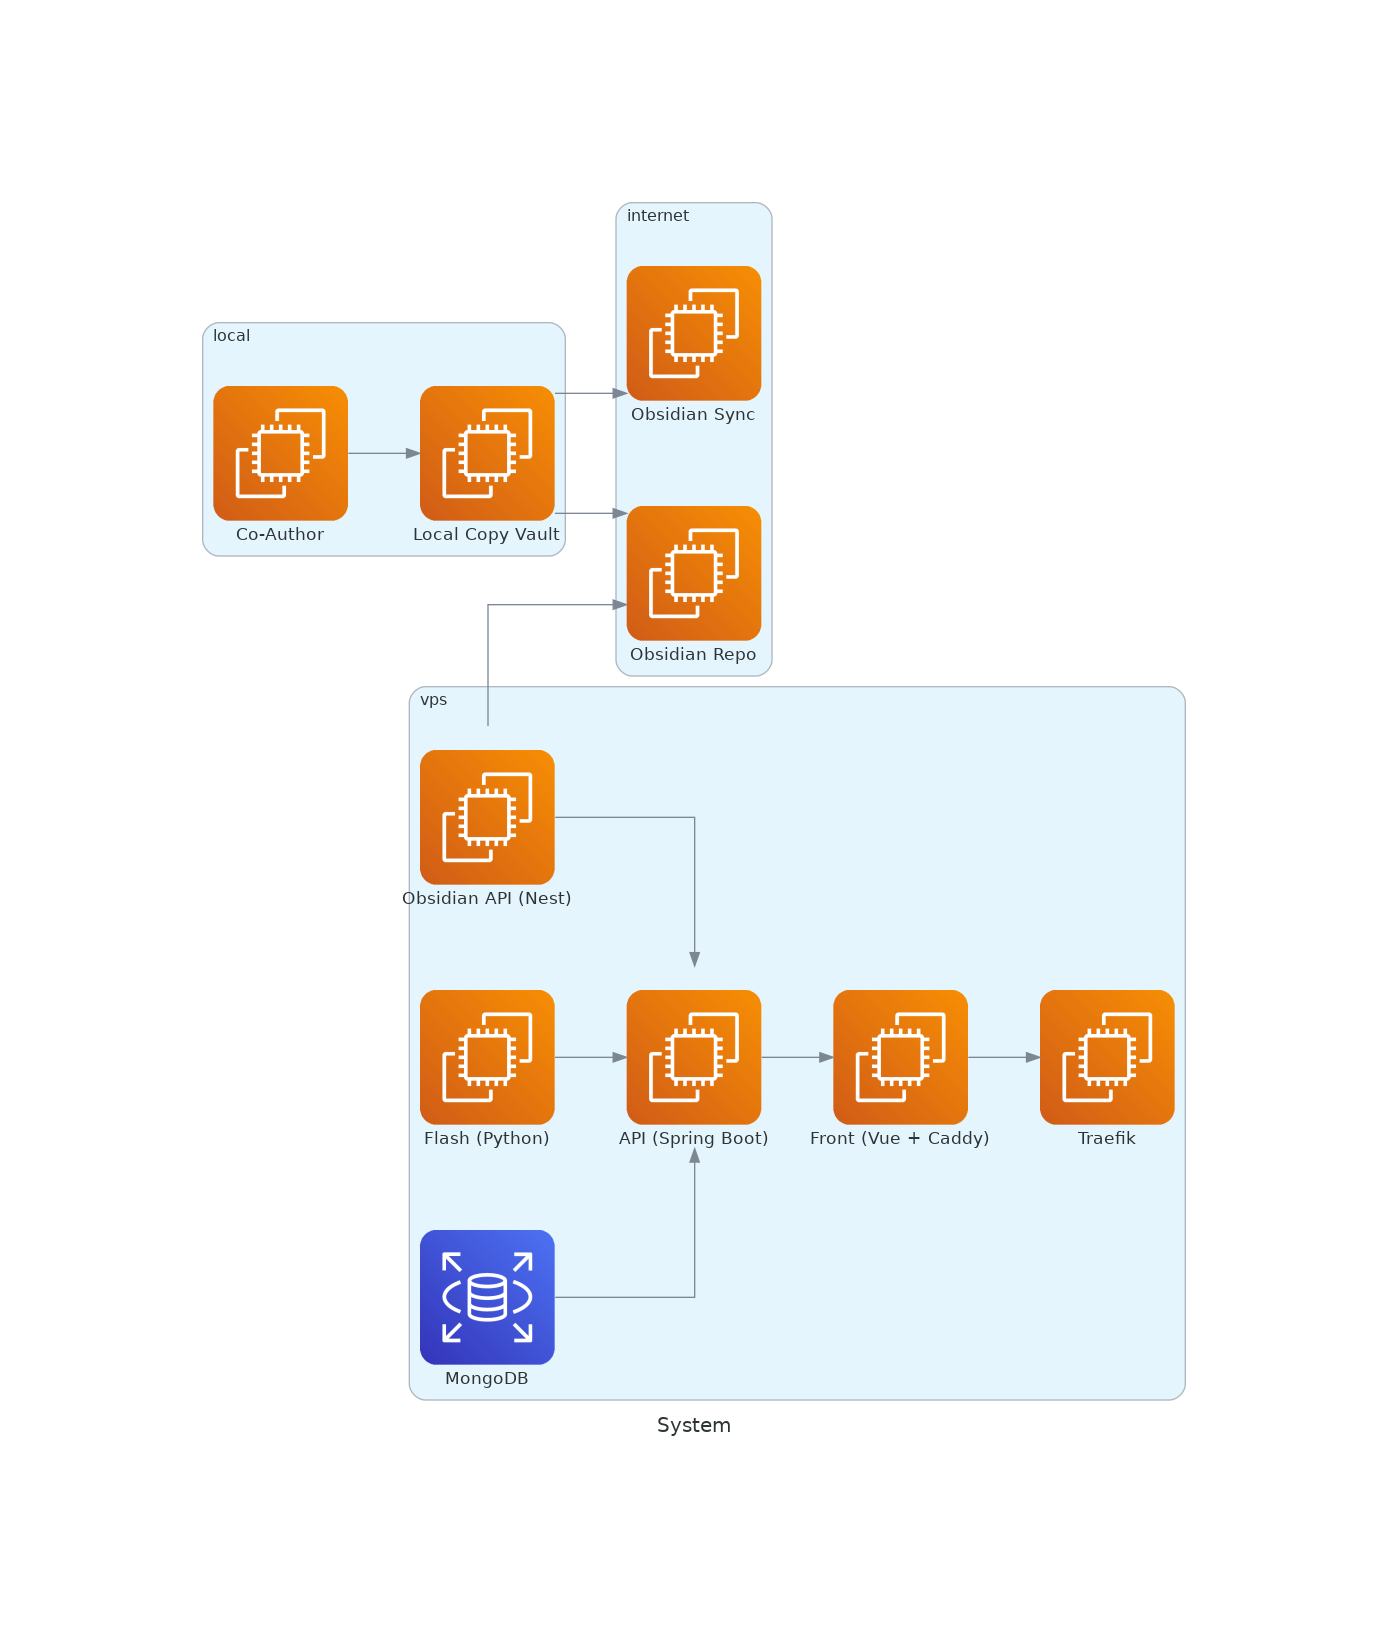
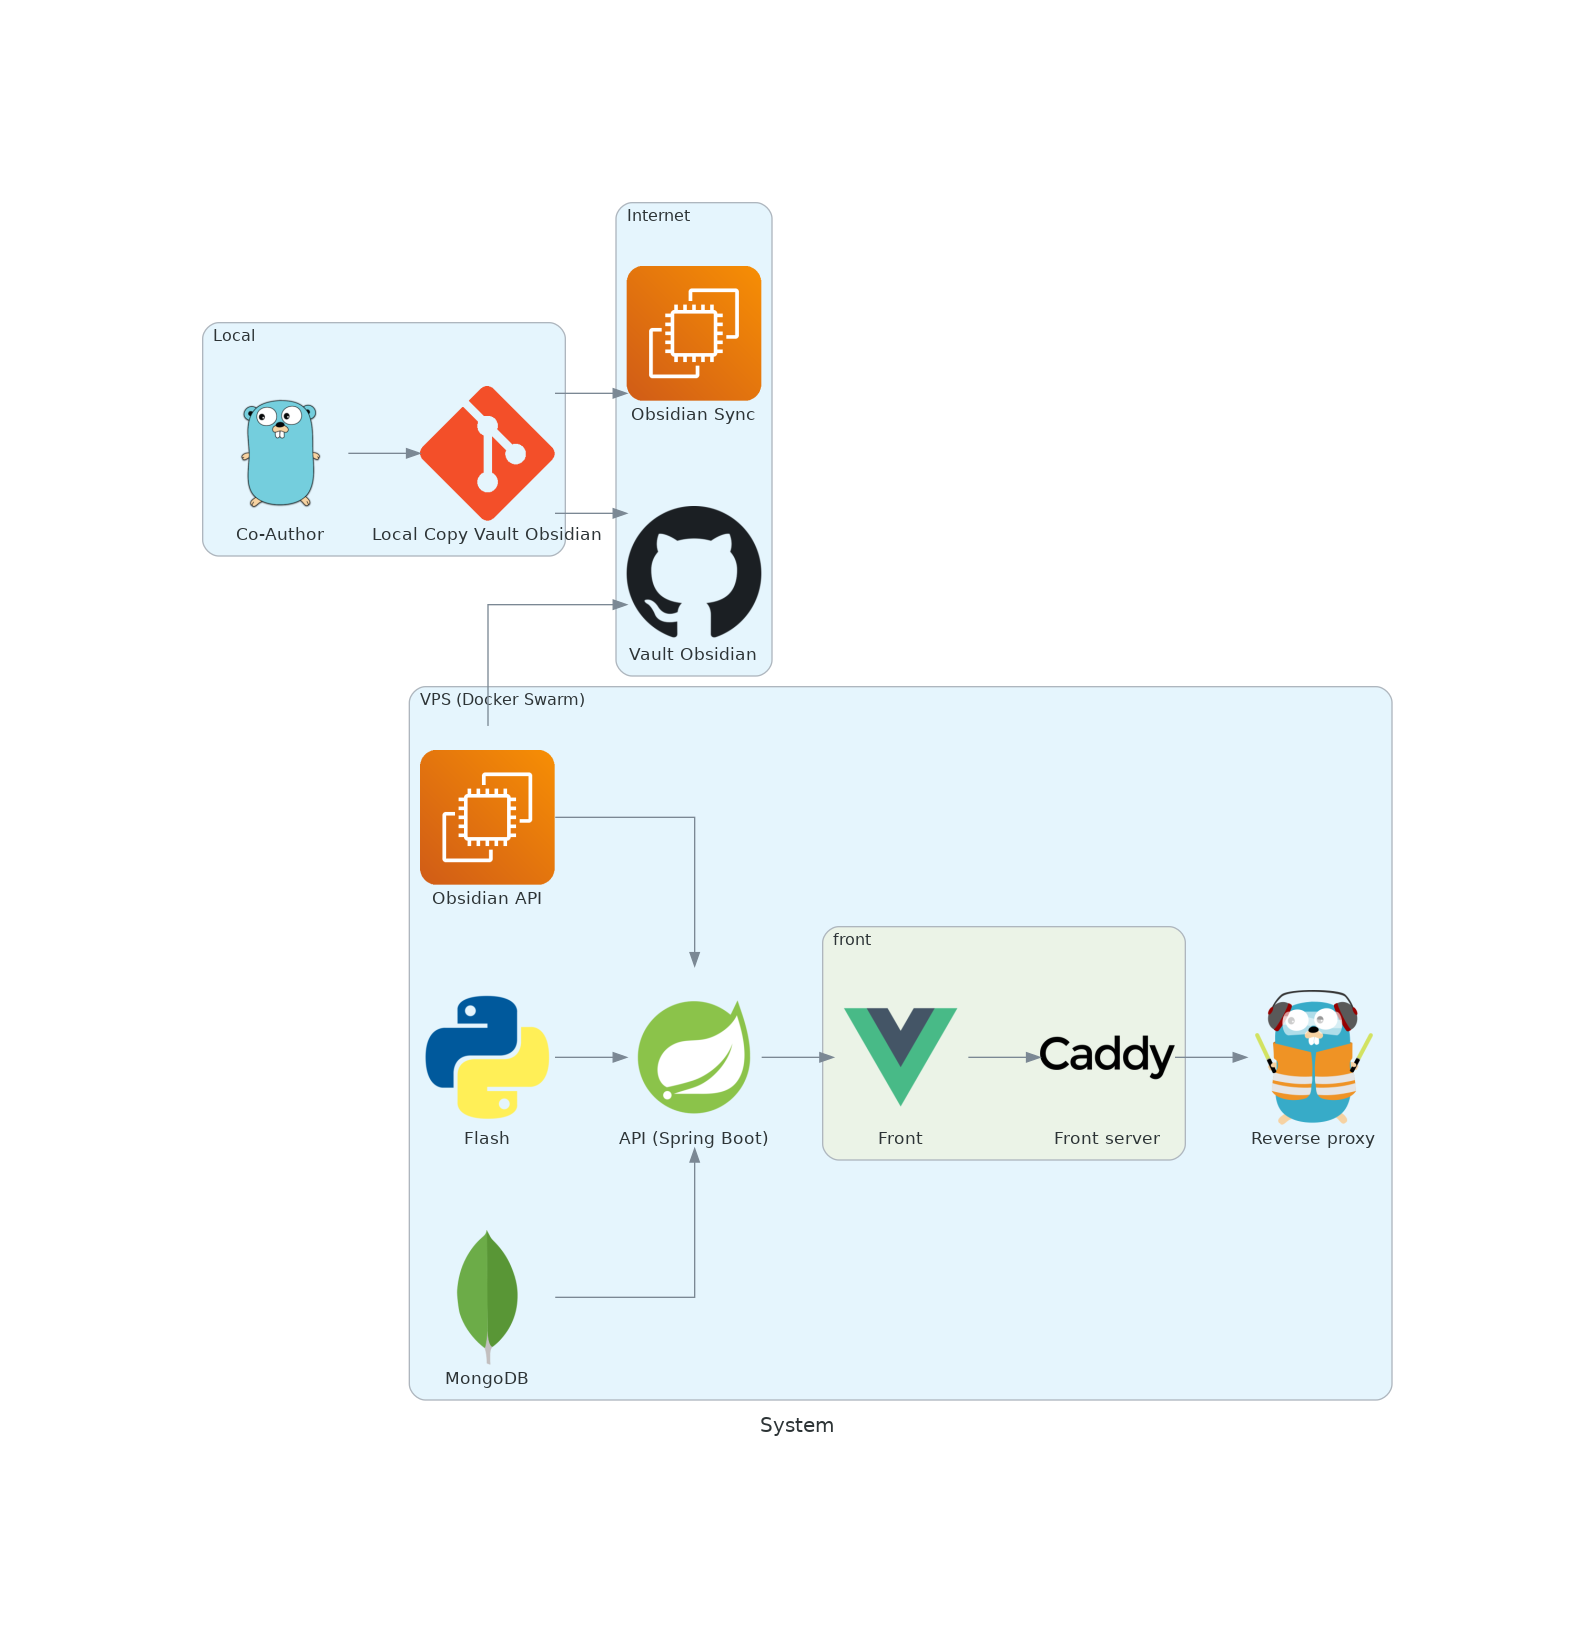
Image

Changed region(s): [[0.1239, 0.1247, 0.8984, 0.8729]]

diff --git a/main.py b/main.py
@@ -1,36 +1,58 @@
 from diagrams import Diagram, Cluster
+from diagrams.custom import Custom
+from urllib.request import urlretrieve
+
 from diagrams.aws.compute import EC2
 from diagrams.aws.database import RDS
-from diagrams.aws.network import ELB
+from diagrams.onprem.network import Traefik, Caddy
+from diagrams.onprem.vcs import Github, Git
+from diagrams.programming.language import Go, Python
+from diagrams.programming.framework import Vue, Spring
+from diagrams.onprem.database import Mongodb
 
-with Diagram("System", show=False):
-    with Cluster("internet"):
-        obsidian_sync = EC2("Obsidian Sync")
-        obsidian_repo = EC2("Obsidian Repo")
+def _get_custom(name: str, url: str, icon_path: str) :
+    urlretrieve(url, icon_path)
+    return Custom(name, icon_path)
 
-    with Cluster("local"):
-        co_author = EC2("Co-Author")
-        local_copy_vault = EC2("Local Copy Vault")
-        
-        co_author >> local_copy_vault
-
-        local_copy_vault >> obsidian_sync
-        local_copy_vault >> obsidian_repo
+def get_nest(name: str):
+    return _get_custom(name, "http://docs.nestjs.com/assets/logo-small-gradient.svg", "icons/nest.png")
 
 
-    with Cluster("vps"):
-        traefik = EC2("Traefik")
-        obsidian_api = EC2("Obsidian API (Nest)")
-        flash = EC2("Flash (Python)")
-        front = EC2("Front (Vue + Caddy)")
-        api = EC2("API (Spring Boot)")
-        mongodb = RDS("MongoDB")
+if __name__ == "__main__":
+    with Diagram("System", show=False):
+        with Cluster("Internet"):
+            obsidian_sync = EC2("Obsidian Sync")
+            obsidian_repo = Github("Vault Obsidian")
 
-        obsidian_api >> api
-        flash >> api
-        mongodb >> api
+        with Cluster("Local"):
+            co_author = Go("Co-Author")
+            local_copy_vault = Git("Local Copy Vault Obsidian")
+            
+            co_author >> local_copy_vault
 
-        api >> front
-        front >> traefik
+            local_copy_vault >> obsidian_sync
+            local_copy_vault >> obsidian_repo
 
-        obsidian_api >> obsidian_repo
+
+        with Cluster("VPS (Docker Swarm)"):
+            traefik = Traefik("Reverse proxy")
+            obsidian_api = EC2("Obsidian API")
+            flash = Python("Flash")
+
+            with Cluster("front"):
+                front = Vue("Front")
+                front_server = Caddy("Front server")
+
+                front >> front_server
+
+            api = Spring("API (Spring Boot)")
+            mongodb = Mongodb("MongoDB")
+
+            obsidian_api >> api
+            flash >> api
+            mongodb >> api
+
+            api >> front
+            front_server >> traefik
+
+            obsidian_api >> obsidian_repo
